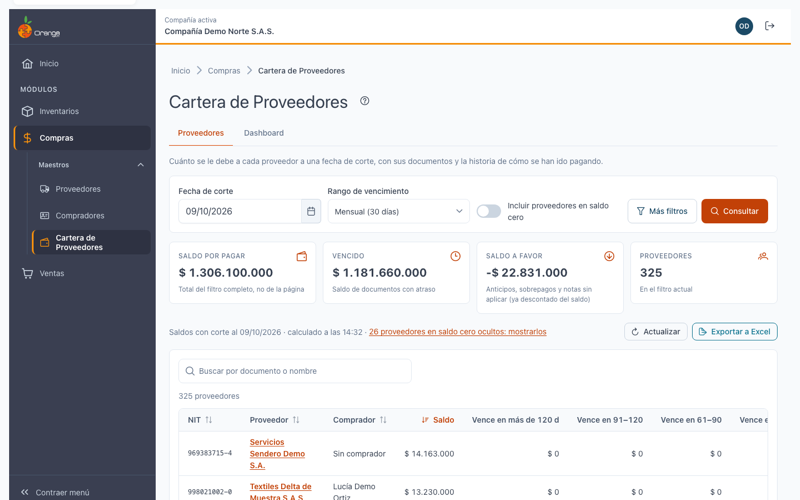
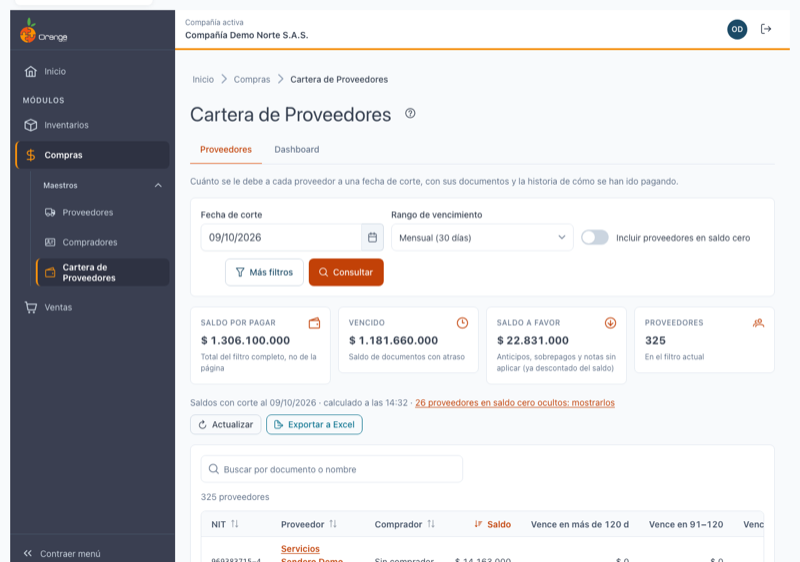
docs(compras-cartera-proveedores): actualiza el manual con las stories vigentes (saldo a favor en valor absoluto, Aplicado a/por, tramo de vence hoy, Buscar documento, error con Reintentar, exportar sin PDF y tope 413) y recaptura las capturas

diff --git a/v2026/compras/readme.md b/v2026/compras/readme.md
@@ -10,4 +10,4 @@ Manuales de las pantallas de Compras en la nueva versión.
 
 - [Proveedores](maestros/proveedores.md)
 - [Compradores](maestros/compradores.md)
-- [Cartera de Proveedores](maestros/cartera-proveedores.md): listado de la cartera y pestaña Dashboard (resumen a una fecha de corte)
+- [Cartera de Proveedores](maestros/cartera-proveedores.md): listado de la cartera, documentos y historia de cada proveedor, exportación a Excel y pestaña Dashboard (resumen a una fecha de corte)
